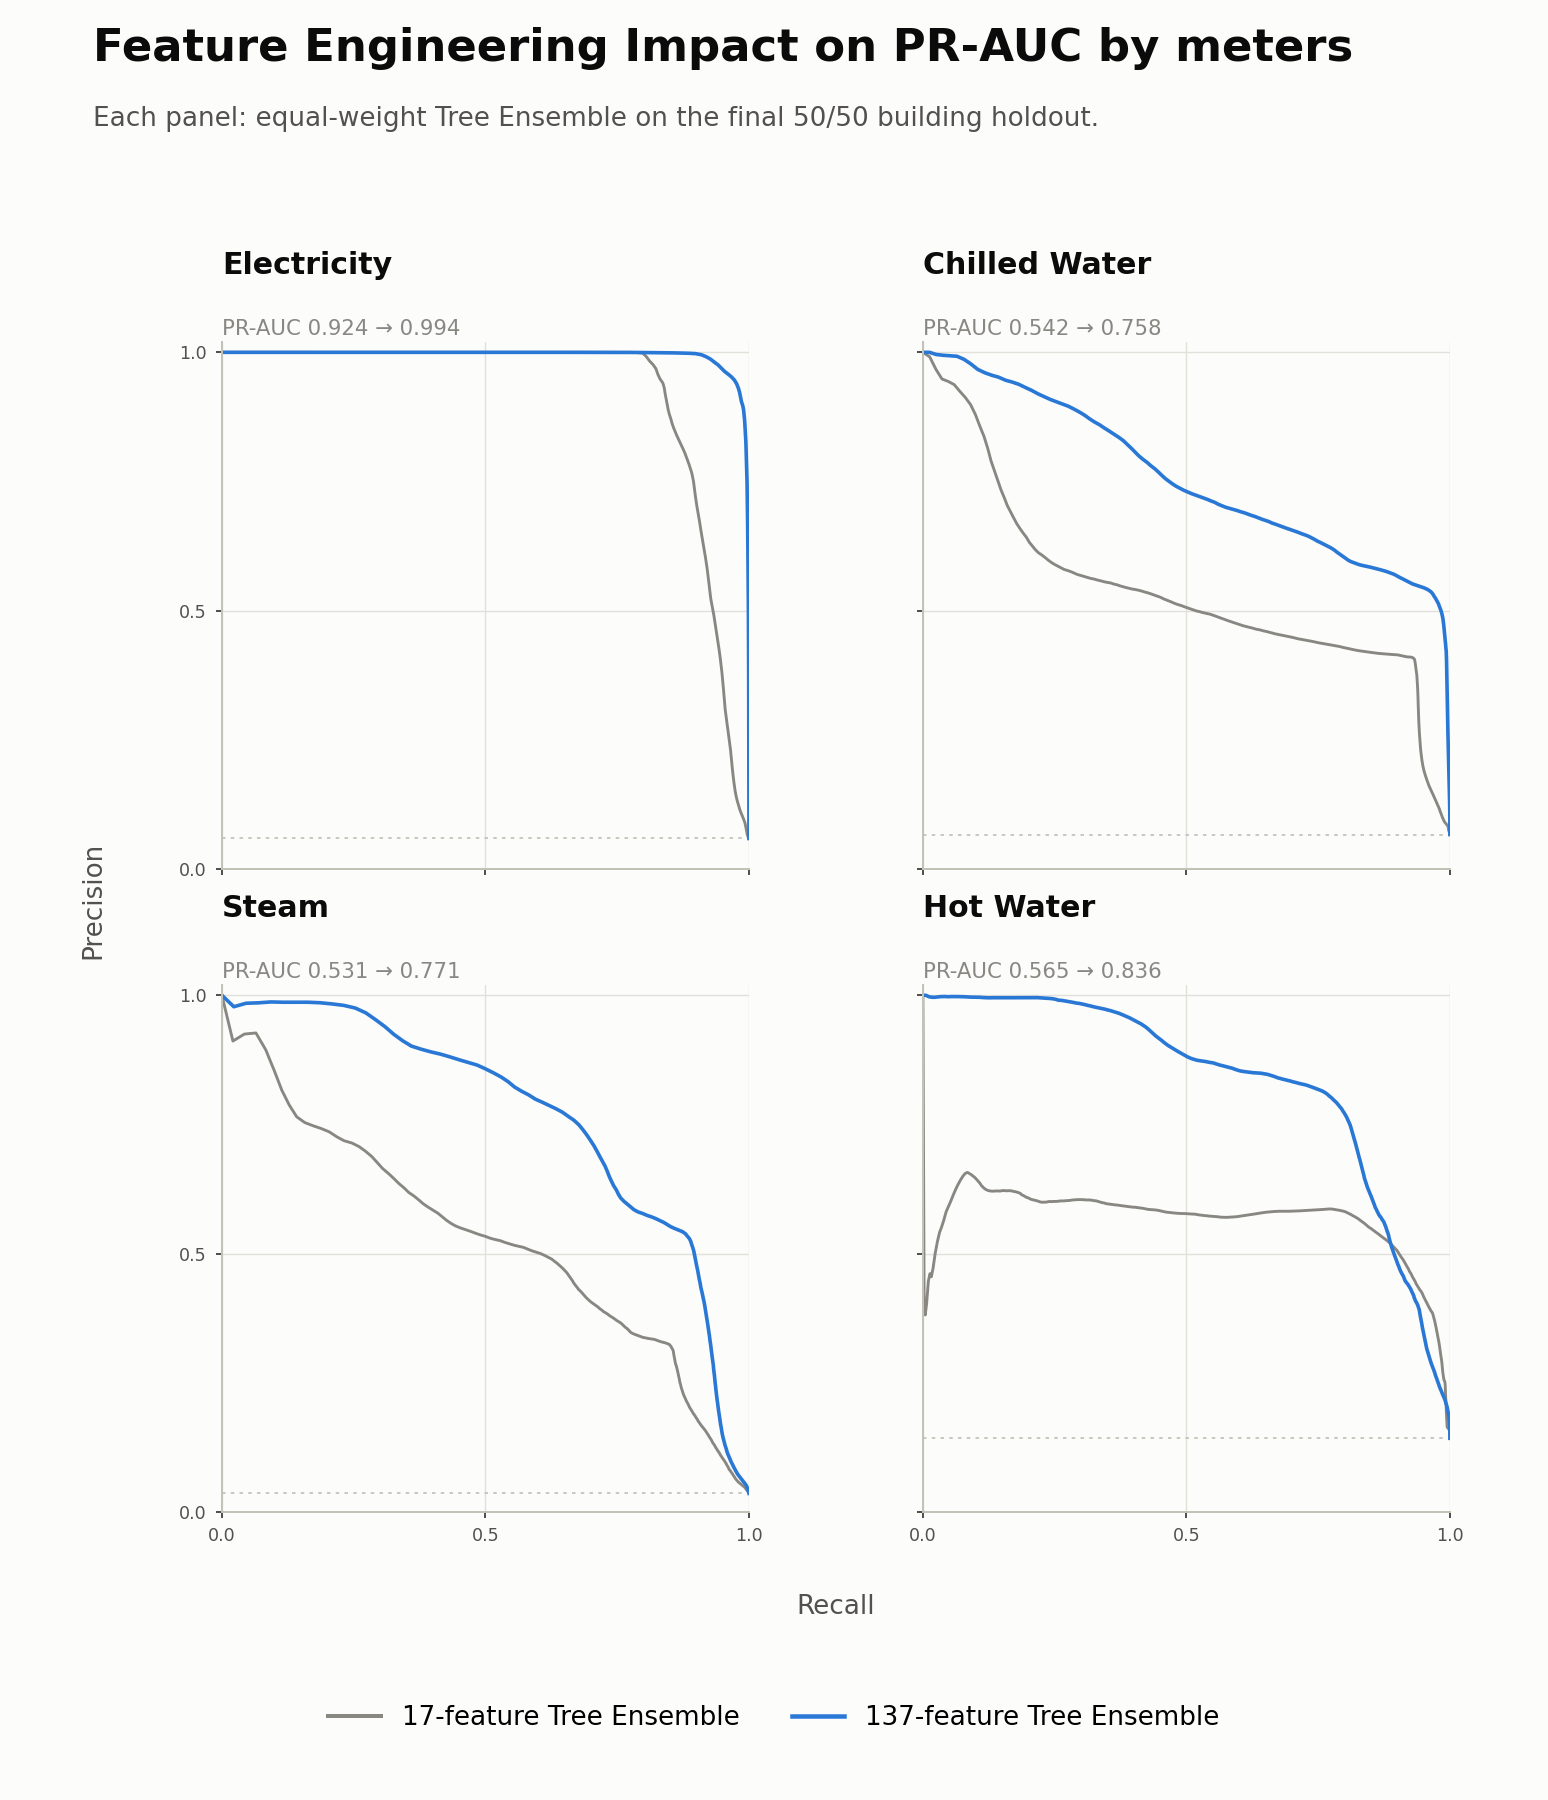
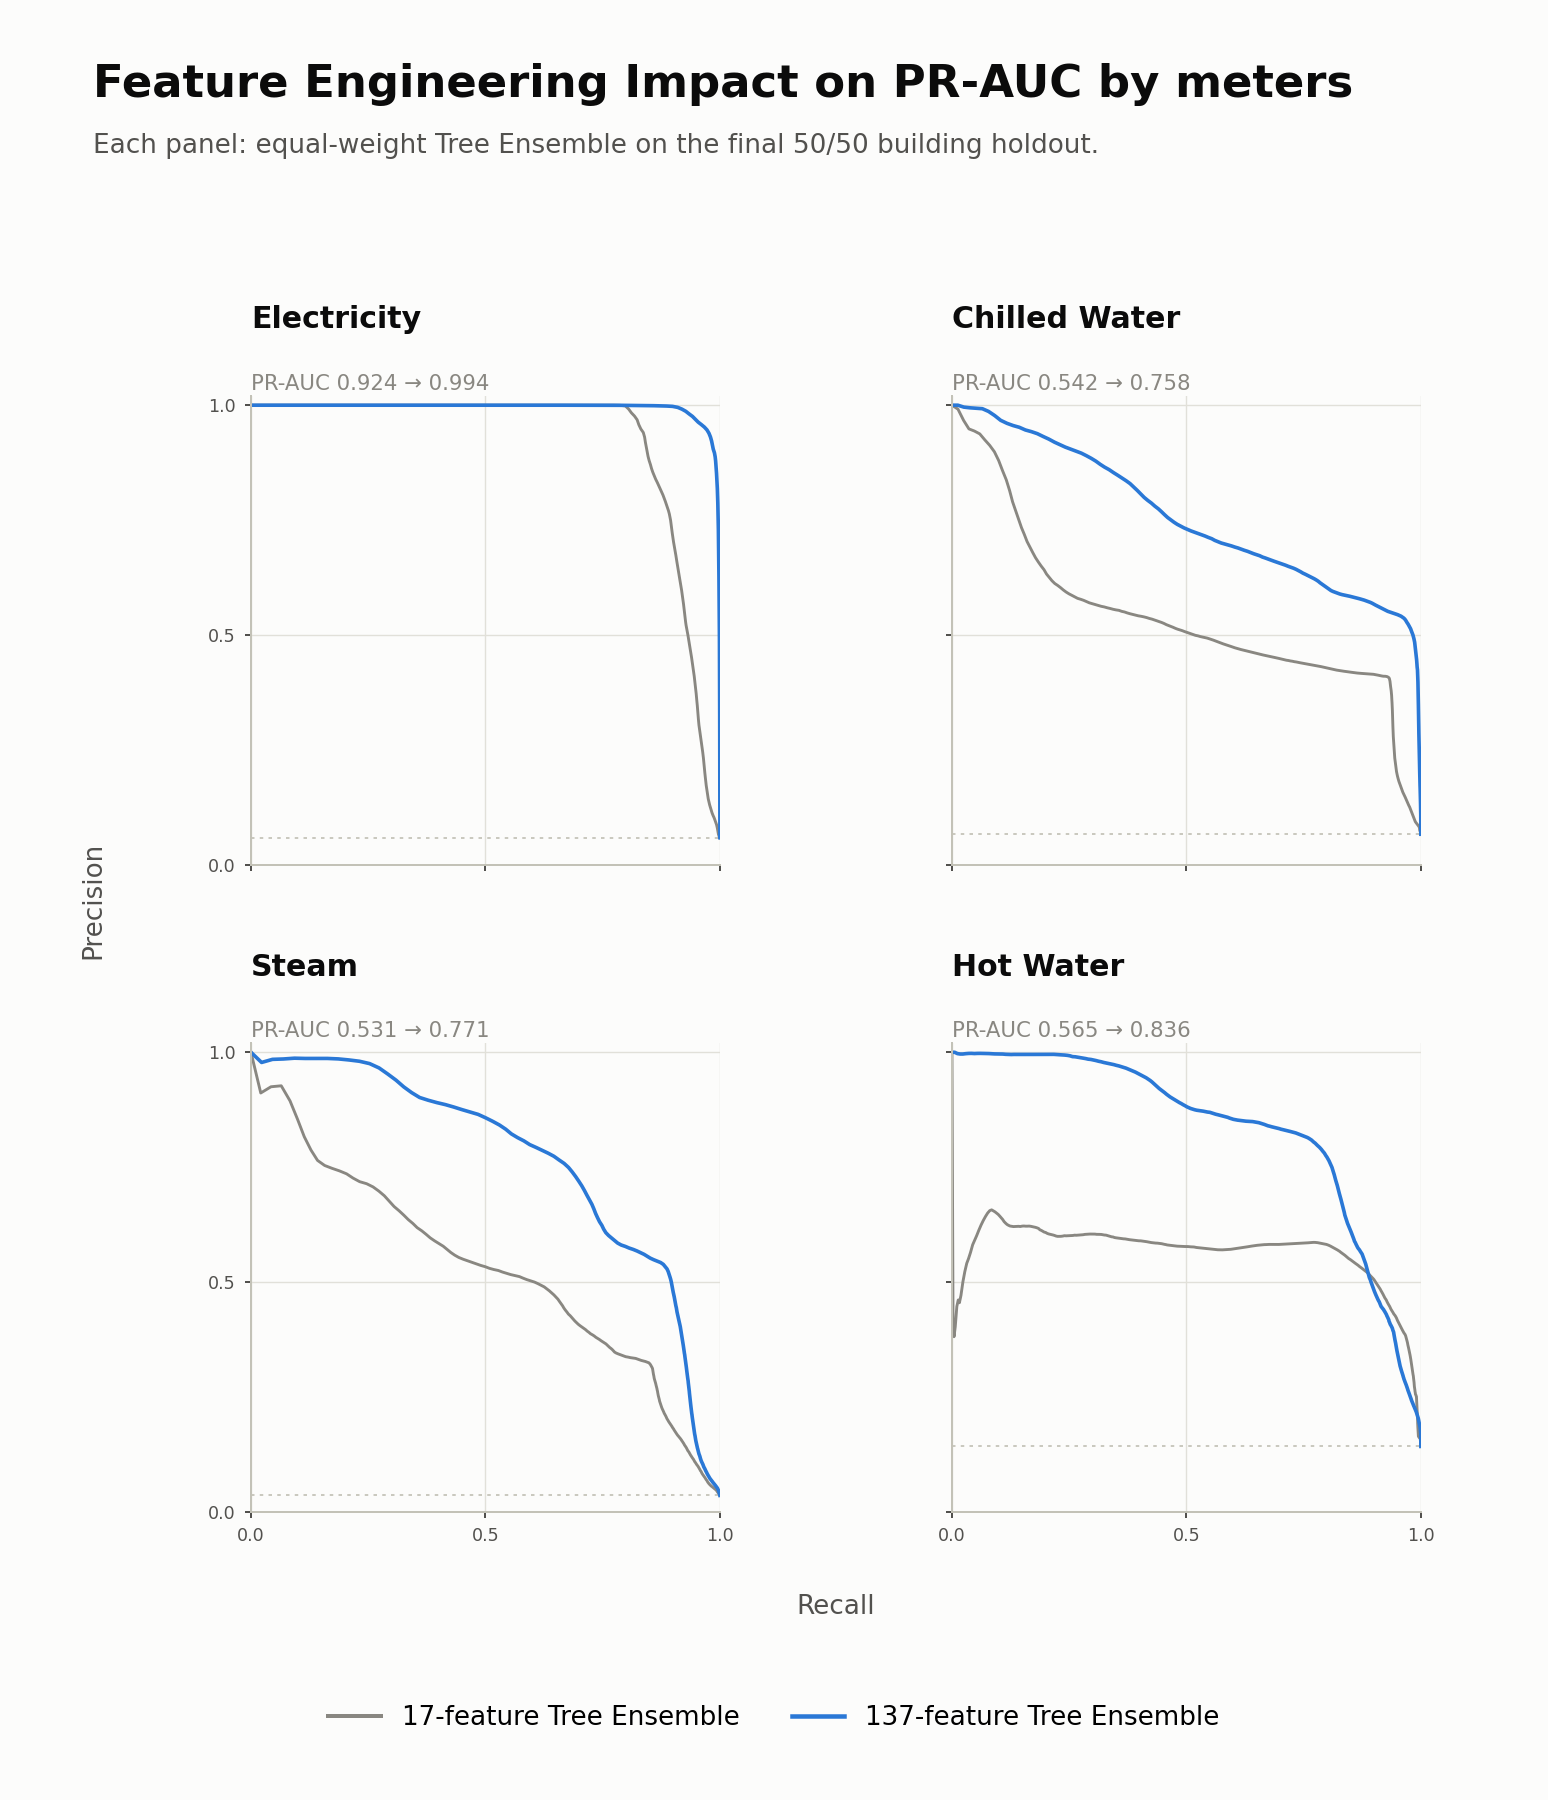
Rebalance M3 meter grid layout

diff --git a/scripts/plot_m3_tree_ensemble_by_meter.py b/scripts/plot_m3_tree_ensemble_by_meter.py
@@ -252,7 +252,7 @@ def render_grid(
     fig.suptitle(
         f"Feature Engineering Impact on {metric} by meters",
         x=0.06,
-        y=0.985,
+        y=0.965,
         ha="left",
         fontsize=18,
         fontweight="bold",
@@ -260,7 +260,7 @@ def render_grid(
     )
     fig.text(
         0.06,
-        0.930,
+        0.915,
         "Each panel: equal-weight Tree Ensemble on the final 50/50 building holdout.",
         ha="left",
         fontsize=10.5,
@@ -280,7 +280,7 @@ def render_grid(
         color=SECONDARY,
     )
     fig.subplots_adjust(
-        left=0.10, right=0.98, top=0.81, bottom=0.16, wspace=0.06, hspace=0.22
+        left=0.10, right=0.98, top=0.78, bottom=0.16, wspace=0.06, hspace=0.38
     )
     fig.legend(
         handles=[
